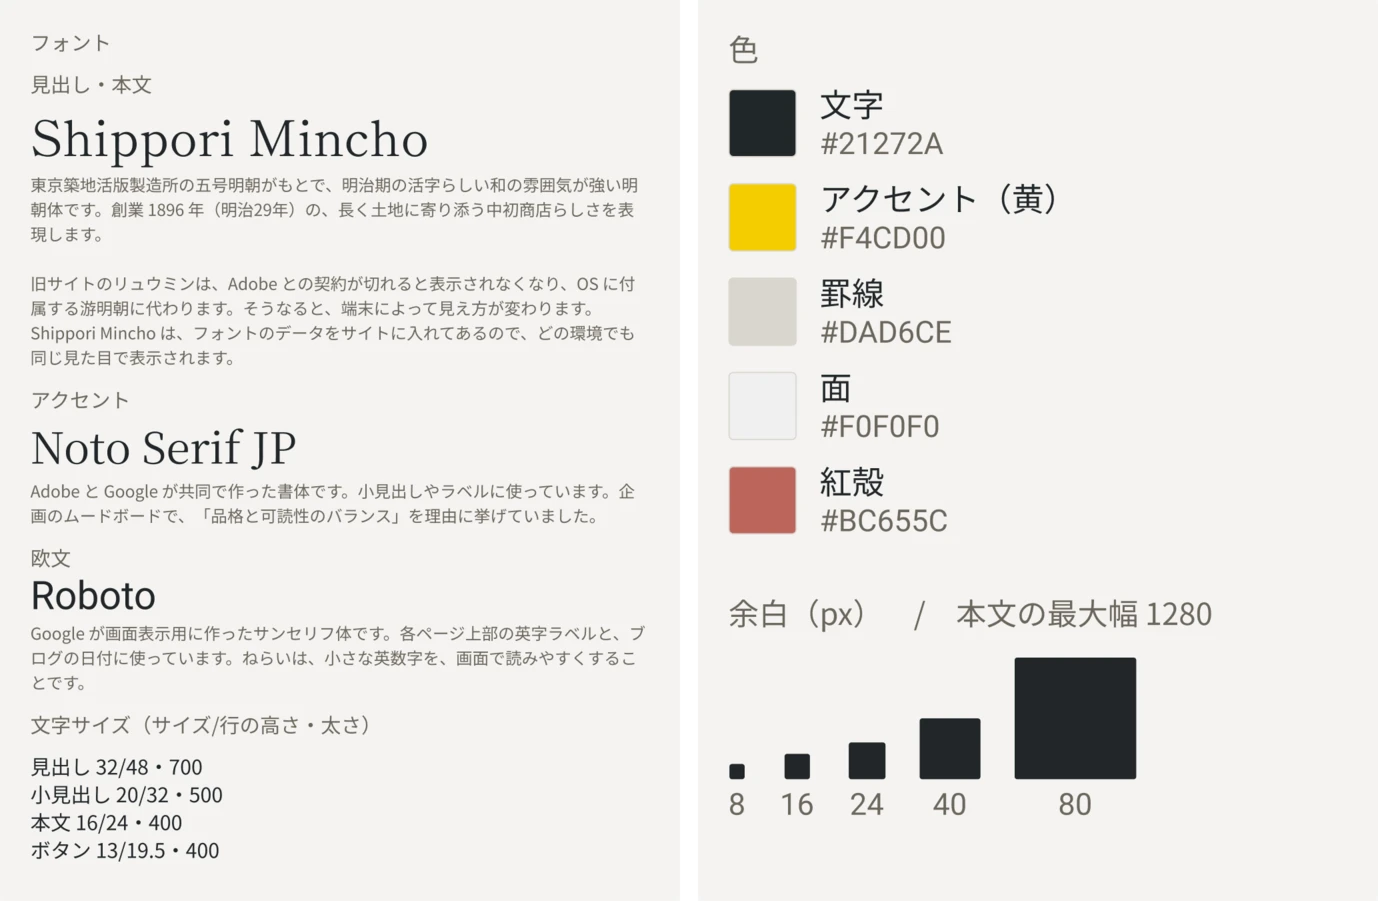
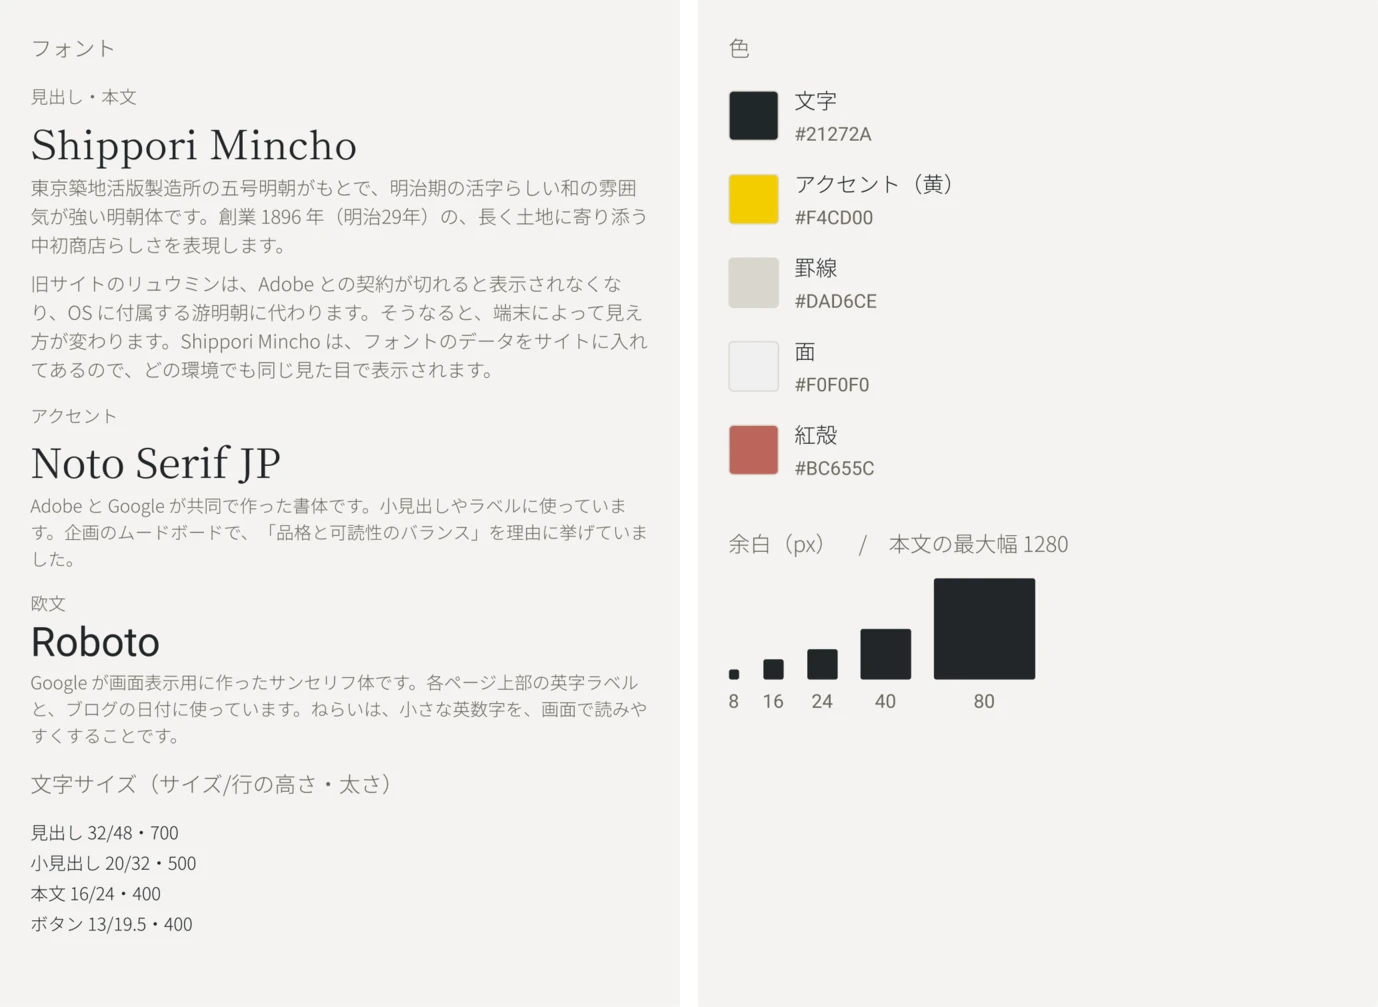
feat(nakahatsu-sy): design system figure at one scale, typeface note in plain words; Figma text styles match the site

Changed region(s): [[0.0, 0.0311, 0.4681, 0.9634], [0.5305, 0.0311, 0.8737, 0.9012], [0.7177, 0.1865, 0.7801, 0.2486]]

diff --git a/app/[locale]/work/nakahatsu-sy/NakahatsuSy.tsx b/app/[locale]/work/nakahatsu-sy/NakahatsuSy.tsx
@@ -469,7 +469,7 @@ const NakahatsuSy: React.FC<{ launched: boolean }> = () => {
               {/* 色の図のあとに、ストアのテーマの文字・サイズ・色・余白の図（デザインシステム）。Figma の Step/5 の下と同じ */}
               {s.fig === 'palette' && (
                 <div className="w-full overflow-hidden rounded-media">
-                  <Image src={`/work/nakahatsu/design-system-${language === 'jp' ? 'jp' : 'en'}.webp`} alt={t('dsAlt')} width={language === 'jp' ? 1378 : 1449} height={language === 'jp' ? 901 : 947}className="h-auto w-full" />
+                  <Image src={`/work/nakahatsu/design-system-${language === 'jp' ? 'jp' : 'en'}.webp`} alt={t('dsAlt')} width={language === 'jp' ? 1378 : 1449} height={language === 'jp' ? 1007 : 1089}className="h-auto w-full" />
                 </div>
               )}
               {/* 3つの言語: ヒーローの図のあとに、スマートフォン幅の商品ページ（文字の部分）を並べた図を足す。住所・フッターは写さない */}

diff --git a/lessons.md b/lessons.md
@@ -941,3 +941,4 @@ headless フラグを疑う。
 ### [2026-10-31] Figma get_screenshot を大きいノードで同時に呼ぶと、120秒超で打ち切られ transport が落ちる
 - 事象: 1020x676 の切り出しを8枚同時に呼ぶと、3枚が返り、5枚が120秒でバックグラウンドへ移り、うち2枚は "transport dropped mid-call"。1枚ずつ呼び直すと数秒で返った。画像を2880pxに差し替えた直後の1枚も同じ失敗。小さいノード（135x84、346x215）4枚の同時呼び出しは全部成功。
 - 対処: 大きいノードは1枚ずつ呼ぶ（同時は小さいノードだけ、3つまで）。失敗したら同じ呼び出しを単独で再試行。原因（サーバー側の描画待ちか）は未確定。
+- 追記（2026-10-31 夜）: 単独で呼んでも落ちることがあった（大きいフレームの 308:364、直前に多数のスタイル変更をした直後など）。同時呼び出しだけが原因ではない。落ちた呼び出しは単独で再試行すれば通る。切り出しの複製を撮るときは 1 枚ずつ。
